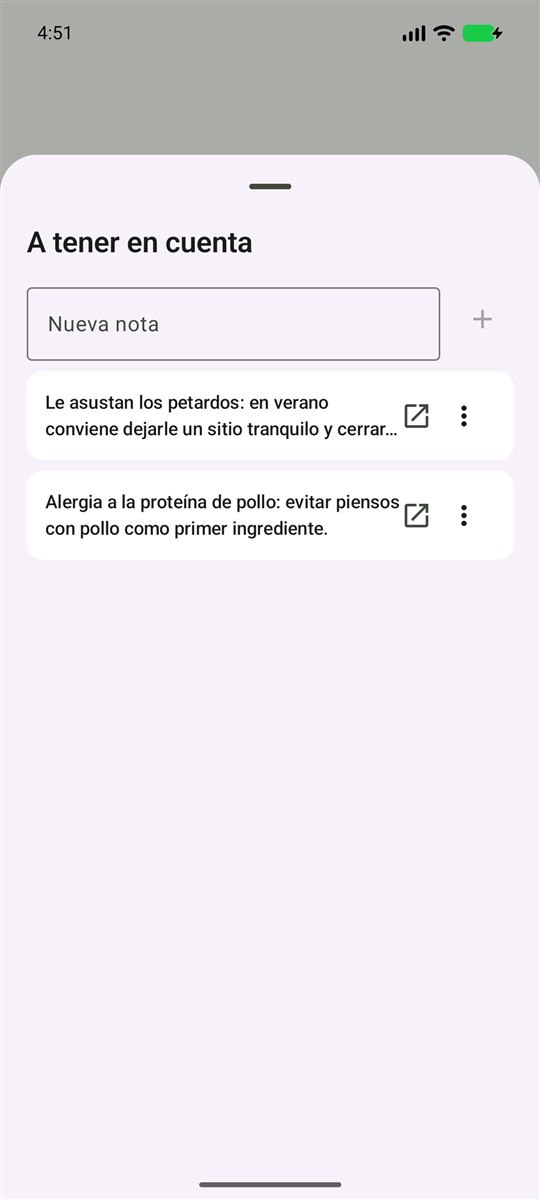
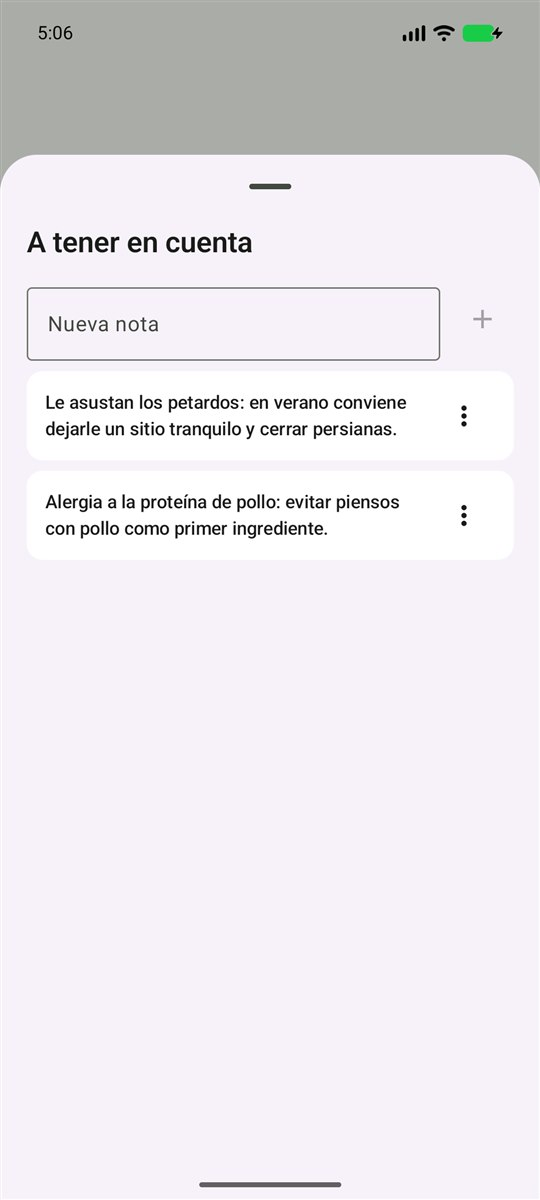
Notas y tratamientos: tocar la tarjeta edita (sin icono de abrir) y la tarjeta de la ficha dice cuantas notas hay

Changed region(s): [[0.0889, 0.3083, 0.8, 0.37], [0.7407, 0.4008, 0.8, 0.4625], [0.0593, 0.0, 0.1481, 0.0308]]

diff --git a/shared/src/commonMain/kotlin/com/example/virtualpetkmp/ui/HojasFicha.kt b/shared/src/commonMain/kotlin/com/example/virtualpetkmp/ui/HojasFicha.kt
@@ -156,13 +156,25 @@ private fun TituloSeccion(texto: String) {
     )
 }
 
-/** Tarjeta simple de contenido dentro de una hoja (título, subtítulo y detalle). */
+/**
+ * Tarjeta simple de contenido dentro de una hoja (título, subtítulo y detalle).
+ *
+ * Dos formas de hacerla pulsable, y la diferencia importa:
+ *
+ * @param onAbrir **abre** el contenido en otra app (un informe adjunto, por ejemplo): hace la
+ *   tarjeta pulsable y dibuja el icono de "abrir fuera".
+ * @param onPulsar acción de la tarjeta **sin icono**, para todo lo que no es abrir: cargar una
+ *   nota arriba para editarla, abrir el formulario de un tratamiento o de una visita. Ahí el
+ *   icono de "abrir" engañaba: parecía que iba a sacar el contenido de la app, cuando en
+ *   realidad abría el formulario para editarlo. Sin icono, la tarjeta se toca y ya está.
+ */
 @Composable
 fun TarjetaContenidoHoja(
     titulo: String,
     subtitulo: String? = null,
     detalle: String? = null,
     onAbrir: (() -> Unit)? = null,
+    onPulsar: (() -> Unit)? = null,
     onCalendario: (() -> Unit)? = null,
     onEditar: (() -> Unit)? = null,
     onBorrar: (() -> Unit)? = null
@@ -170,7 +182,7 @@ fun TarjetaContenidoHoja(
     Card(
         modifier = Modifier.fillMaxWidth(),
         colors = CardDefaults.cardColors(containerColor = LocalExtrasColors.current.tarjetaFondo),
-        onClick = onAbrir ?: {}
+        onClick = onAbrir ?: onPulsar ?: {}
     ) {
         Row(
             modifier = Modifier
@@ -487,7 +499,9 @@ fun HojaSaludYSeguimiento(
                                     formato.formatearFecha(tratamiento.fechaFin)
                                 )
                             },
-                            onAbrir = { onEditarTratamiento(tratamiento) },
+                            // Tocar la tarjeta abre el formulario para editarlo (la acción está
+                            // en el propio toque, sin icono).
+                            onPulsar = { onEditarTratamiento(tratamiento) },
                             onBorrar = tratamiento.id?.let { id -> { onBorrarTratamiento(id) } }
                         )
                     }
@@ -522,7 +536,7 @@ fun HojaSaludYSeguimiento(
                                     tratamiento.fechaFin?.let { formato.formatearFecha(it) }
                                         ?: stringResource(Res.string.hoja_sin_fecha)
                                 ),
-                                onAbrir = { onEditarTratamiento(tratamiento) },
+                                onPulsar = { onEditarTratamiento(tratamiento) },
                                 onBorrar = tratamiento.id?.let { id -> { onBorrarTratamiento(id) } }
                             )
                         }
@@ -544,8 +558,8 @@ fun HojaSaludYSeguimiento(
                         }
                     }
                     items(informes, key = { it.id ?: 0 }) { informe ->
-                        // Tocar el informe lo abre con la app del sistema; para modificarlo
-                        // está el botón de editar de la tarjeta.
+                        // El informe SÍ se abre fuera, con la app del sistema, así que aquí el
+                        // icono de abrir tiene sentido y se queda. Para modificarlo, el menú ⋮.
                         TarjetaContenidoHoja(
                             // El tipo de informe lo escribe el usuario, así que se muestra tal cual.
                             titulo = "${informe.tipo} · ${formato.formatearFecha(informe.fecha)}",
@@ -575,7 +589,7 @@ fun HojaSaludYSeguimiento(
                             detalle = listOfNotNull(revision.veterinario, revision.notas)
                                 .joinToString(" · ")
                                 .ifBlank { null },
-                            onAbrir = { onEditarRevision(revision) },
+                            onPulsar = { onEditarRevision(revision) },
                             onBorrar = revision.id?.let { id -> { onBorrarRevision(id) } }
                         )
                     }
@@ -699,8 +713,9 @@ fun HojaNotas(
             items(notas, key = { it.id ?: 0 }) { nota ->
                 TarjetaContenidoHoja(
                     titulo = nota.texto,
-                    // Tocar la nota la carga arriba para poder modificarla
-                    onAbrir = {
+                    // Tocar la nota la carga arriba para modificarla. Va en `onPulsar` y no en
+                    // `onAbrir`: no se abre nada fuera, así que no lleva icono.
+                    onPulsar = {
                         notaEditando = nota.id
                         texto = nota.texto
                     },

diff --git a/shared/src/commonMain/kotlin/com/example/virtualpetkmp/ui/FichaMascotaScreen.kt b/shared/src/commonMain/kotlin/com/example/virtualpetkmp/ui/FichaMascotaScreen.kt
@@ -89,6 +89,7 @@ import virtualpetkmp.shared.generated.resources.ficha_exportar_pdf
 import virtualpetkmp.shared.generated.resources.ficha_modificar_datos
 import virtualpetkmp.shared.generated.resources.ficha_peso_actual
 import virtualpetkmp.shared.generated.resources.ficha_peso_ideal
+import virtualpetkmp.shared.generated.resources.ficha_notas
 import virtualpetkmp.shared.generated.resources.ficha_proximas
 import virtualpetkmp.shared.generated.resources.ficha_sin_datos
 import virtualpetkmp.shared.generated.resources.ficha_tarjeta_notas
@@ -393,8 +394,27 @@ fun FichaMascotaScreen(
             titulo = stringResource(Res.string.ficha_tarjeta_notas),
             colorFondo = colores.tarjetaAzul,
             colorIcono = colores.iconoTarjetaAzul,
-            // Sin recuento: aquí interesa saber que dentro hay apuntes importantes.
-            detalle = stringResource(Res.string.ficha_tarjeta_notas_detalle),
+            // Con apuntes, cuántos hay (la cifra se compone aparte porque
+            // `pluralStringResource` elige la forma pero no sustituye argumentos). Sin ninguno,
+            // la frase que invita a añadirlos: un recuento de cero no dice nada.
+            badges = if (resumen.totalNotas > 0) {
+                listOf(
+                    BadgeEstado(
+                        "${resumen.totalNotas} " + pluralStringResource(
+                            Res.plurals.ficha_notas,
+                            resumen.totalNotas
+                        ),
+                        EstadoBadge.NEUTRO
+                    )
+                )
+            } else {
+                emptyList()
+            },
+            detalle = if (resumen.totalNotas == 0) {
+                stringResource(Res.string.ficha_tarjeta_notas_detalle)
+            } else {
+                null
+            },
             hoja = "notas"
         )
     )

diff --git a/README.md b/README.md
@@ -14,7 +14,7 @@ Desarrollada con **Kotlin Multiplatform** y **Compose Multiplatform**, compartie
   informes, visitas y notas) y las tarjetas de veterinario—, en vez de un lápiz y una papelera
   sueltos que cambiaban de una pantalla a otra.
 - 📷 **Foto de la mascota**: se puede elegir de los archivos o **hacer con la cámara** (Android); se ve en la ficha y en la lista de mascotas.
-- 🏠 **Ficha como panel**: cabecera con la foto, el nombre y la edad, y tarjetas por bloque (peso, vacunas y preventivos, salud y seguimiento, notas) que muestran **un solo aviso** cada una: en ámbar lo que vence pronto y en rojo lo vencido.
+- 🏠 **Ficha como panel**: cabecera con la foto, el nombre y la edad, y tarjetas por bloque (peso, vacunas y preventivos, salud y seguimiento, notas) que muestran **un solo aviso** cada una: en ámbar lo que vence pronto, en rojo lo vencido y, en "A tener en cuenta", cuántos apuntes hay.
 - ⚖ **Pesos**: registro y evolución en un **gráfico de línea** en la ficha, y una vista detallada con el histórico, filtros (**6 meses** —el de por defecto—, por año, mes actual o por rango de fechas) y el **histórico plegable**. El gráfico enseña cada pesaje en los rangos cortos y agrupa por meses al mirar un año entero, y se arrastra en horizontal cuando la serie no cabe. Al pulsar un pesaje se abre un modal para editarlo o eliminarlo.
 - 🎯 **Peso ideal**: se fija desde la ficha de la mascota o desde la propia hoja de peso. Se dibuja como **línea discontinua** de referencia en el gráfico y, en la lista, el último peso lleva un indicador **▲ verde** si está por encima o **▼ rojo** si está por debajo.
 - 💉 **Vacunas**: registro con próxima dosis, **notificaciones locales** 15 días antes y **añadir el recordatorio al calendario** del teléfono.
@@ -42,7 +42,9 @@ Desarrollada con **Kotlin Multiplatform** y **Compose Multiplatform**, compartie
 
 La lista enseña, de un vistazo, el último peso de cada mascota frente a su peso ideal (**▼ rojo** si
 está por debajo, **▲ verde** si está por encima). La ficha es un panel: la cabecera con la foto, el
-nombre, la edad y el menú de acciones, y tarjetas por bloque que dan **un solo aviso** cada una.
+nombre, la edad y el menú de acciones, y tarjetas por bloque que dan **un solo aviso** cada una (las
+dosis vencidas o próximas, los tratamientos activos y **cuántos apuntes** hay en "A tener en
+cuenta").
 
 ### Peso
 
@@ -70,7 +72,9 @@ Las cinco pestañas de las dos hojas de la ficha, más las notas:
 | ![Notas](screenshots/12-a-tener-en-cuenta.jpg) |
 
 Cada registro lleva su estado (al día, vence pronto, vencida) y sus acciones en el menú **⋮**
-(editar y eliminar), igual que en el resto de la app.
+(editar y eliminar), igual que en el resto de la app. **Tocar la tarjeta abre su formulario para
+editarla** (en las notas, la carga arriba; solo los informes se abren fuera, con la app del
+sistema), así que editar no obliga a pasar por el menú.
 
 ### Ficha en PDF
 
